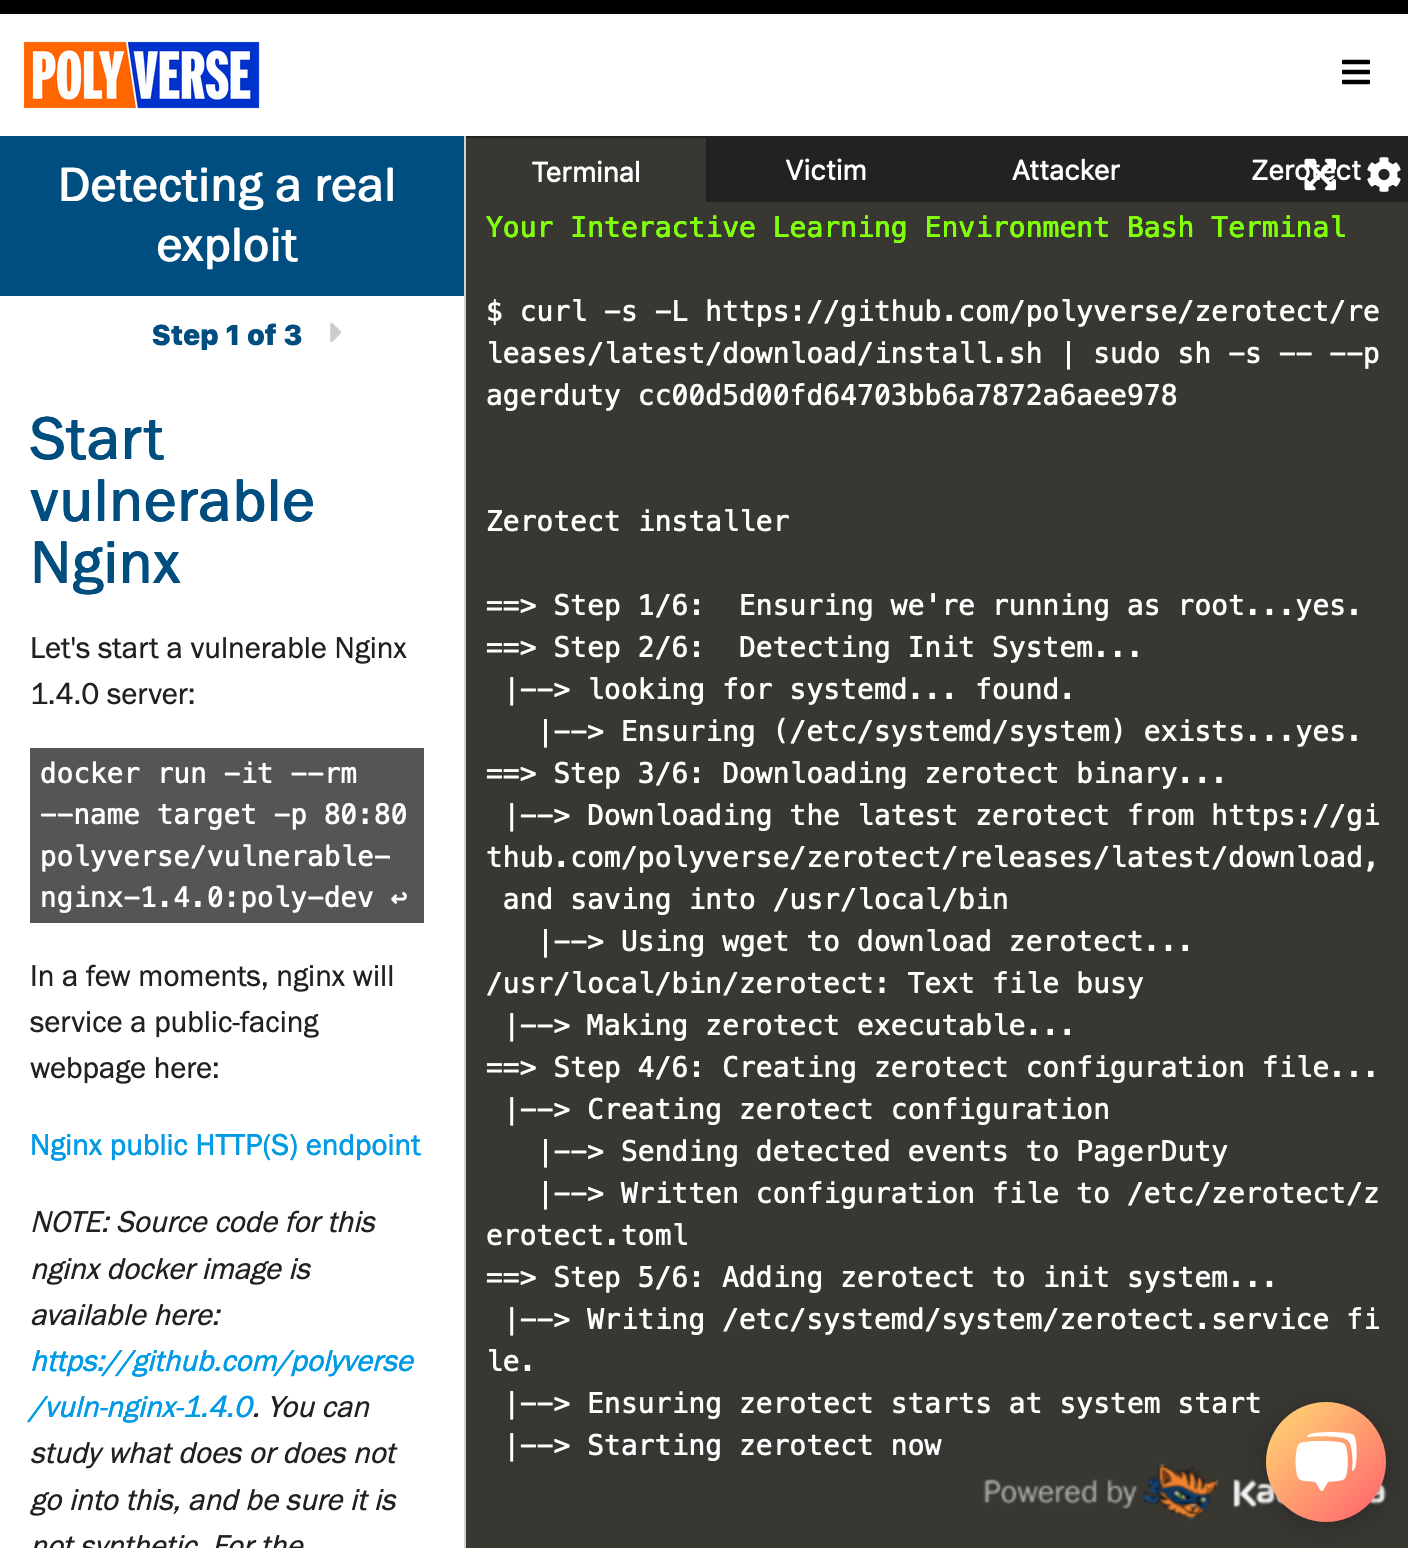
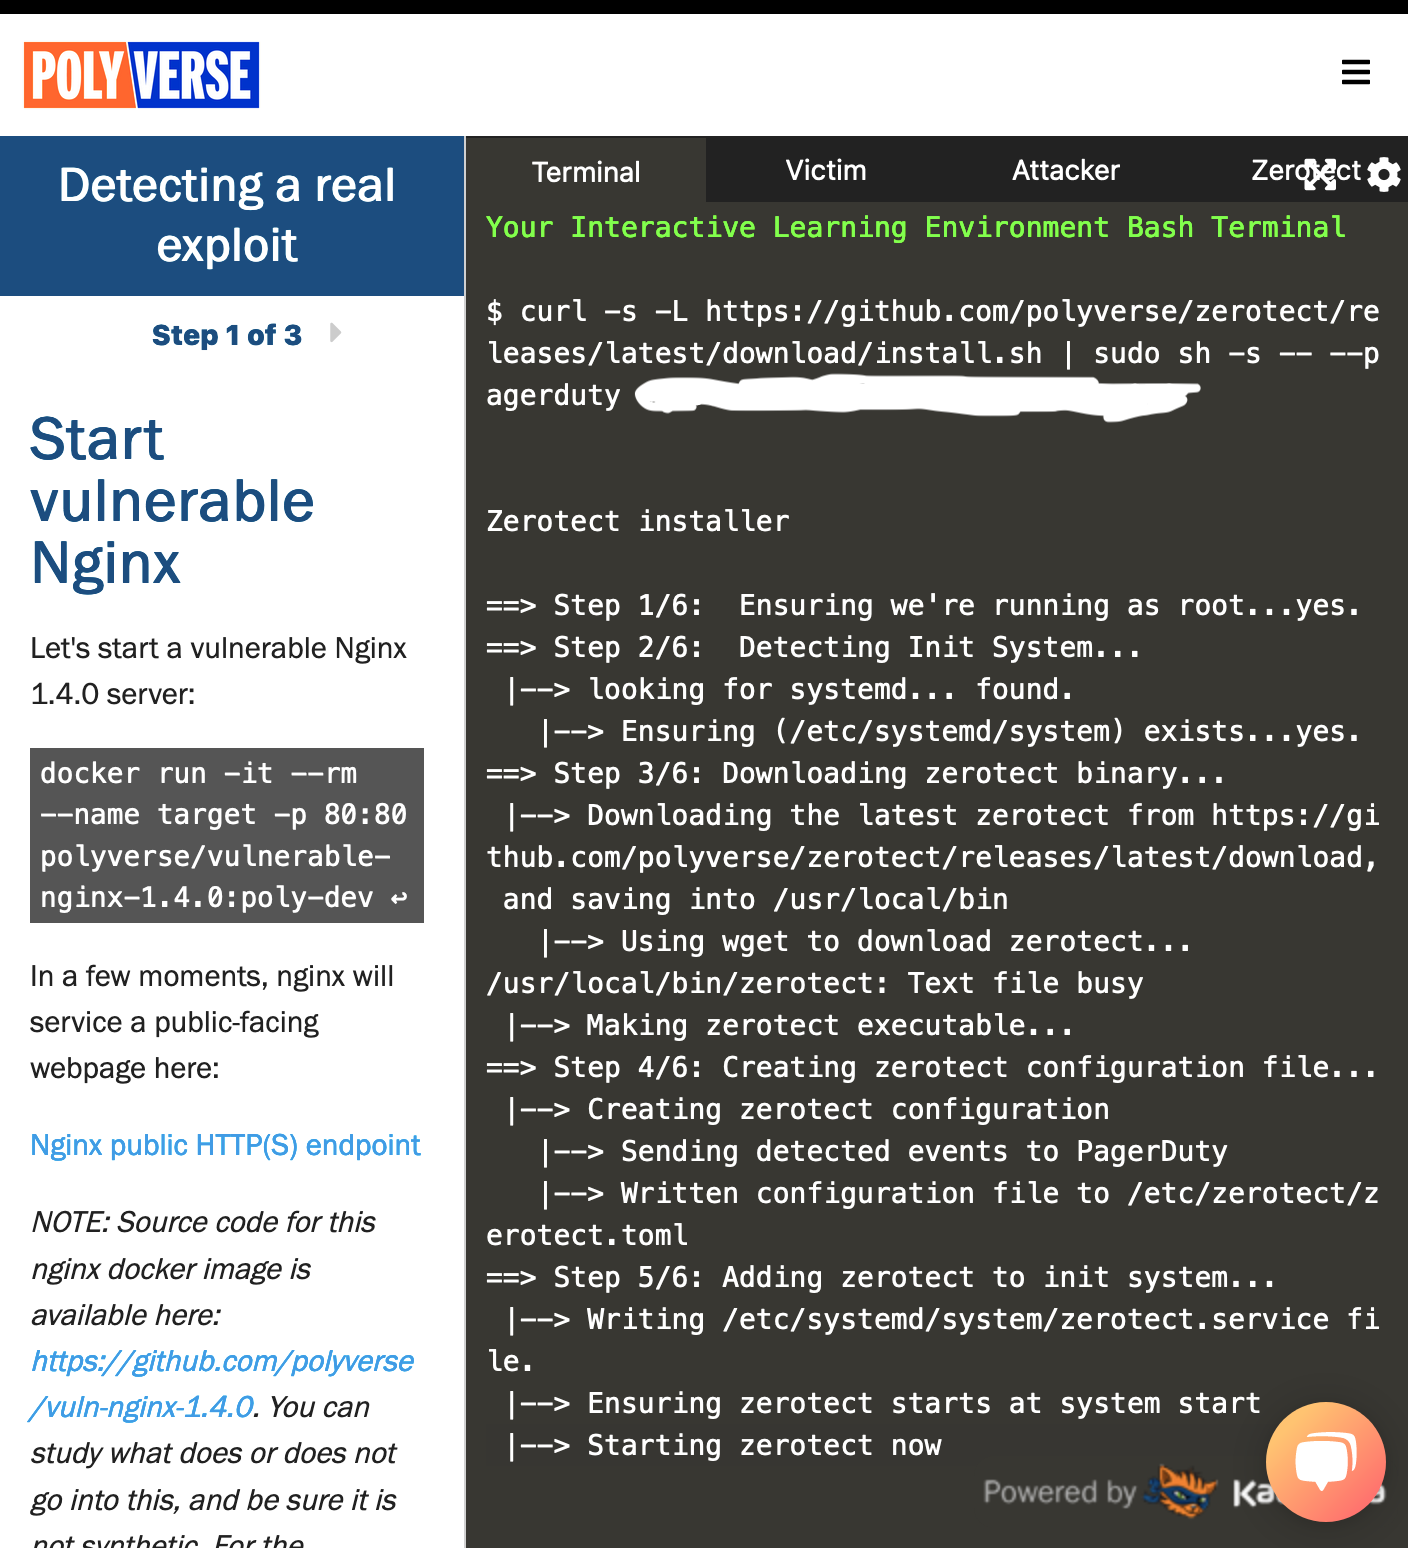
Redacted the integration key

diff --git a/integrations/PagerDuty/README.md b/integrations/PagerDuty/README.md
@@ -62,7 +62,7 @@ This is how you can run your own Blind-ROP attack and alert it in PagerDuty:
 2. Press “Start Scenario”:
 ![PagerDuty Demo Step 2](pagerduty-demo-step-2.png)
 
-3. Run the install command: `curl -s -L https://github.com/polyverse/zerotect/releases/latest/download/install.sh | sudo sh -s -- --pagerduty cc00d5d00fd64703bb6a7872a6aee978`
+3. Run the install command: `curl -s -L https://github.com/polyverse/zerotect/releases/latest/download/install.sh | sudo sh -s -- --pagerduty <integration key>`
 ![PagerDuty Demo Step 3](pagerduty-demo-step-3.png)
 
 4. Run: `systemctl restart zerotect`
@@ -76,6 +76,9 @@ This is how you can run your own Blind-ROP attack and alert it in PagerDuty:
 
 7. Start the attack by clicking on this gray area on the left
 ![PagerDuty Demo Step 7](pagerduty-demo-step-7.png)
+
+8. Watch the attack happen...
+![PagerDuty Demo Step 8](pagerduty-demo-step-8.png)
 
 And at this point just wait…. And the attack will generate alerts.
 
